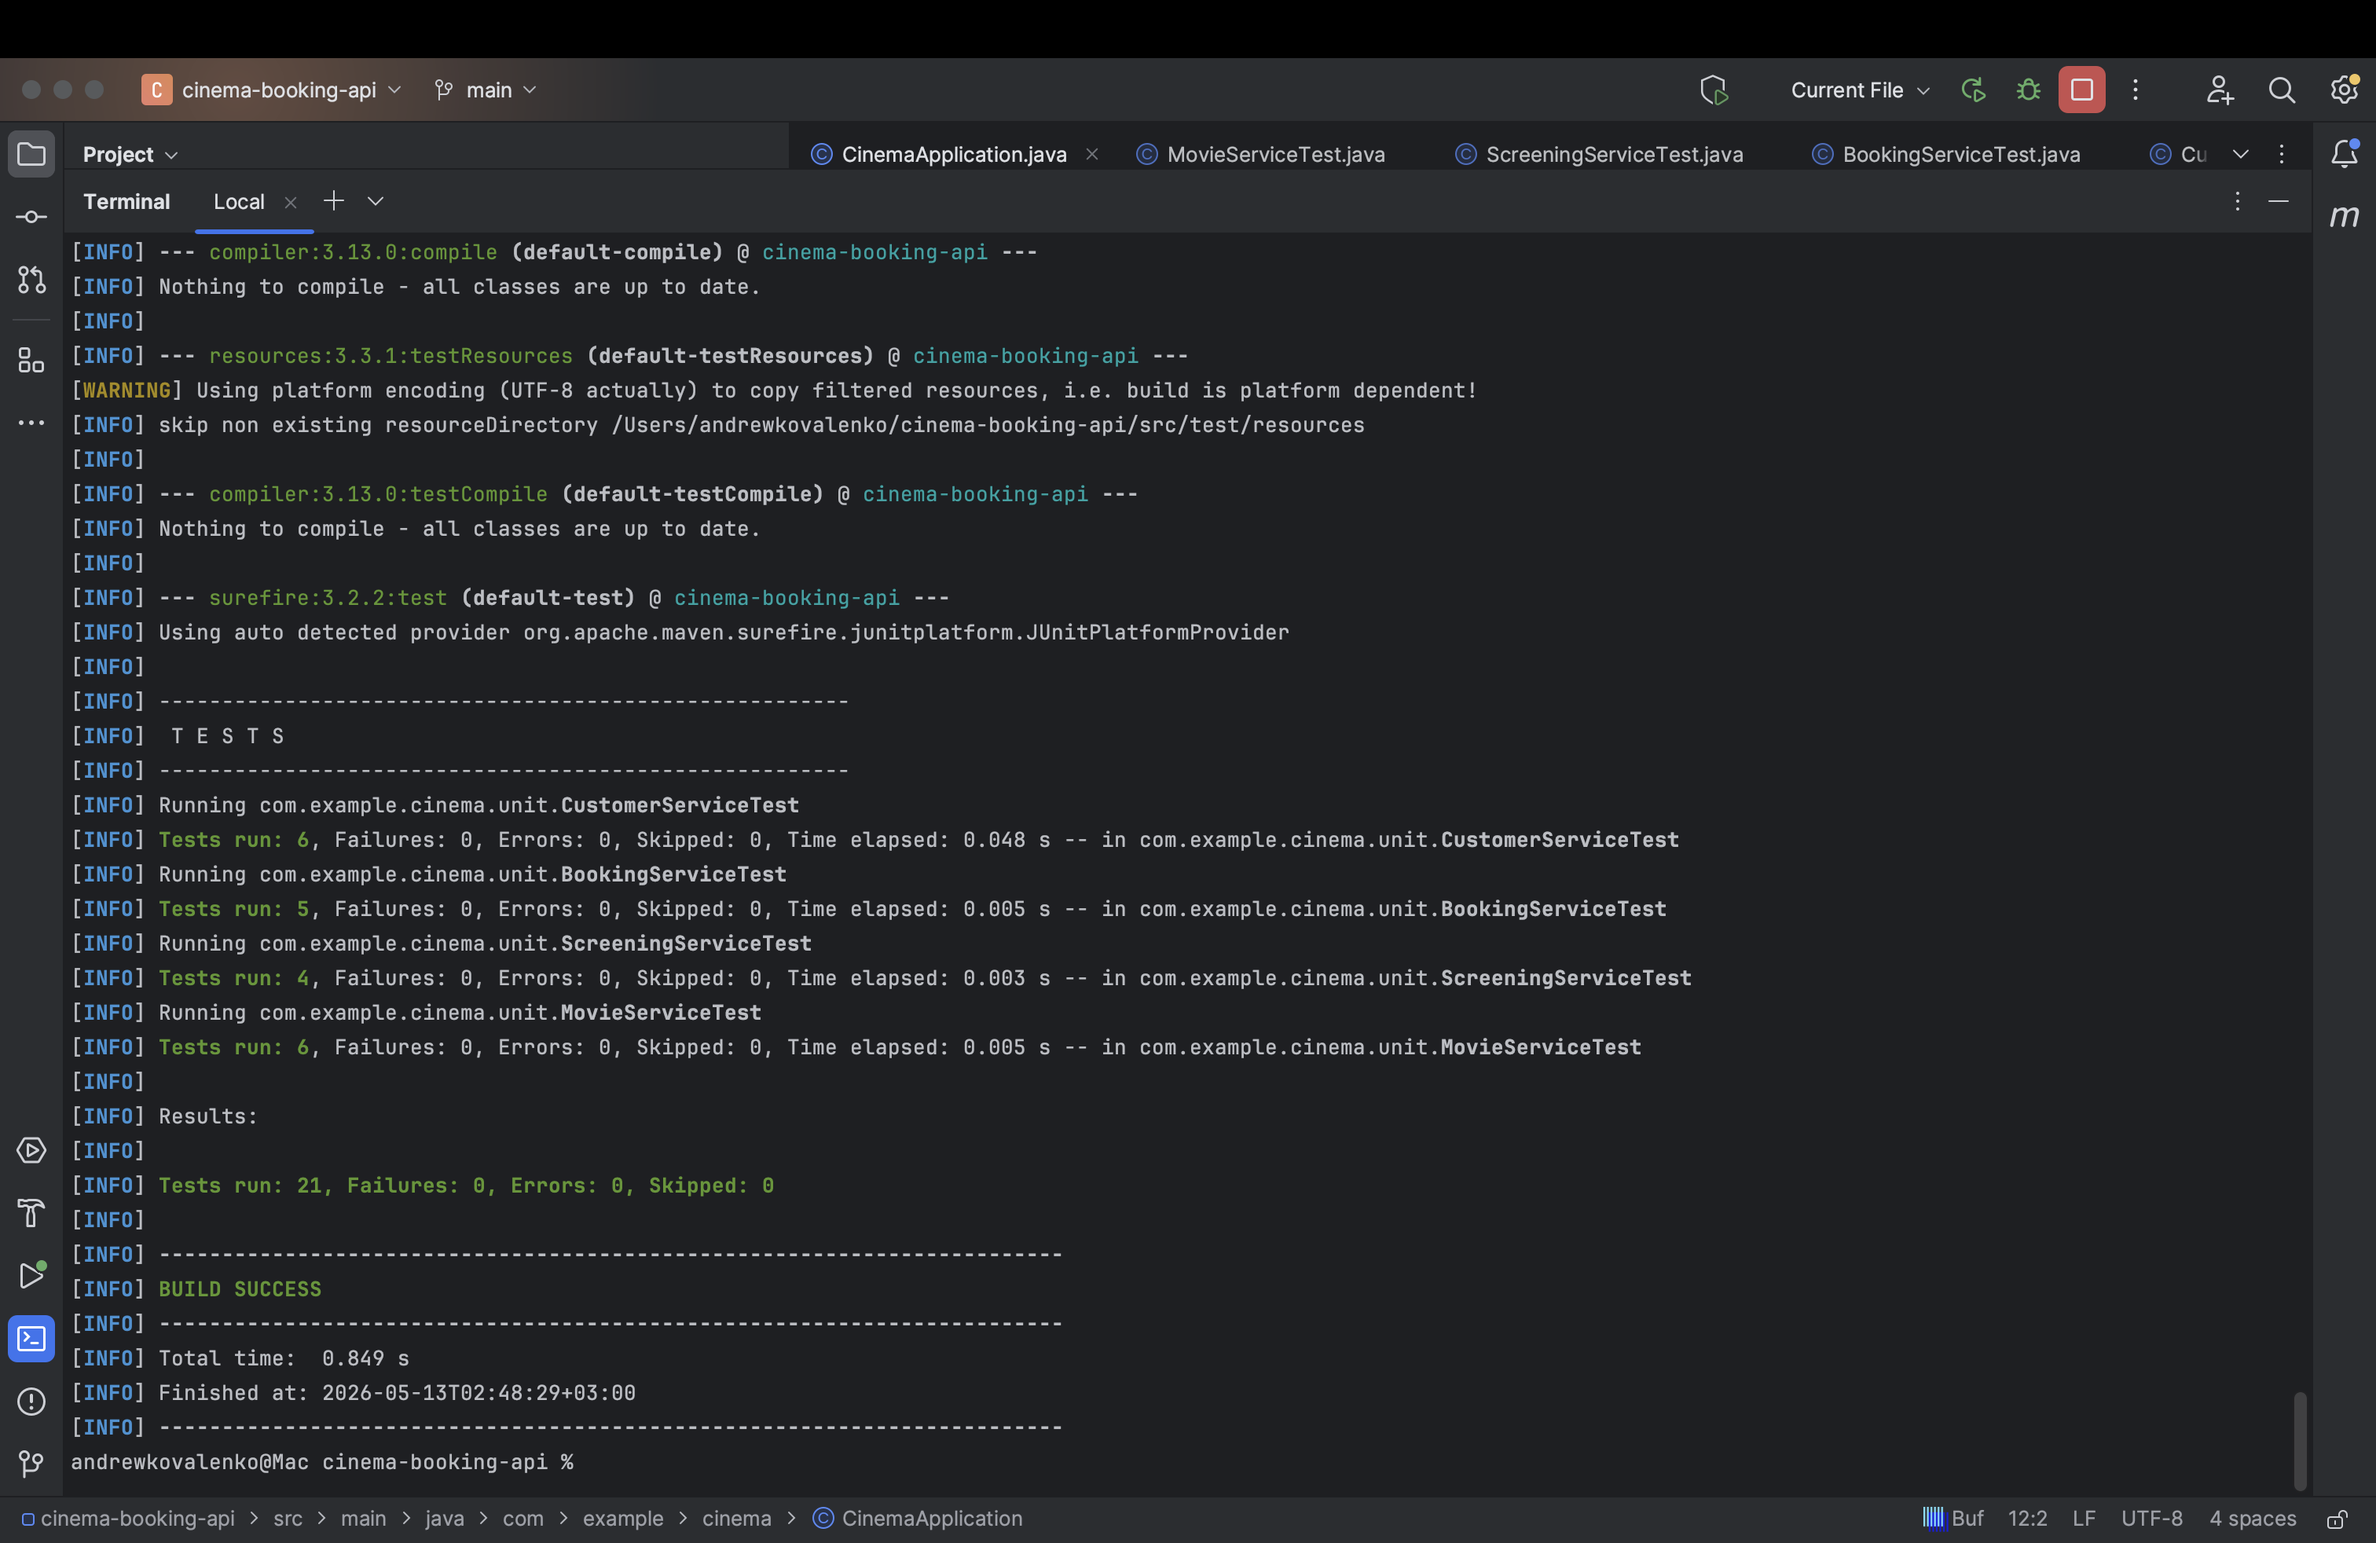
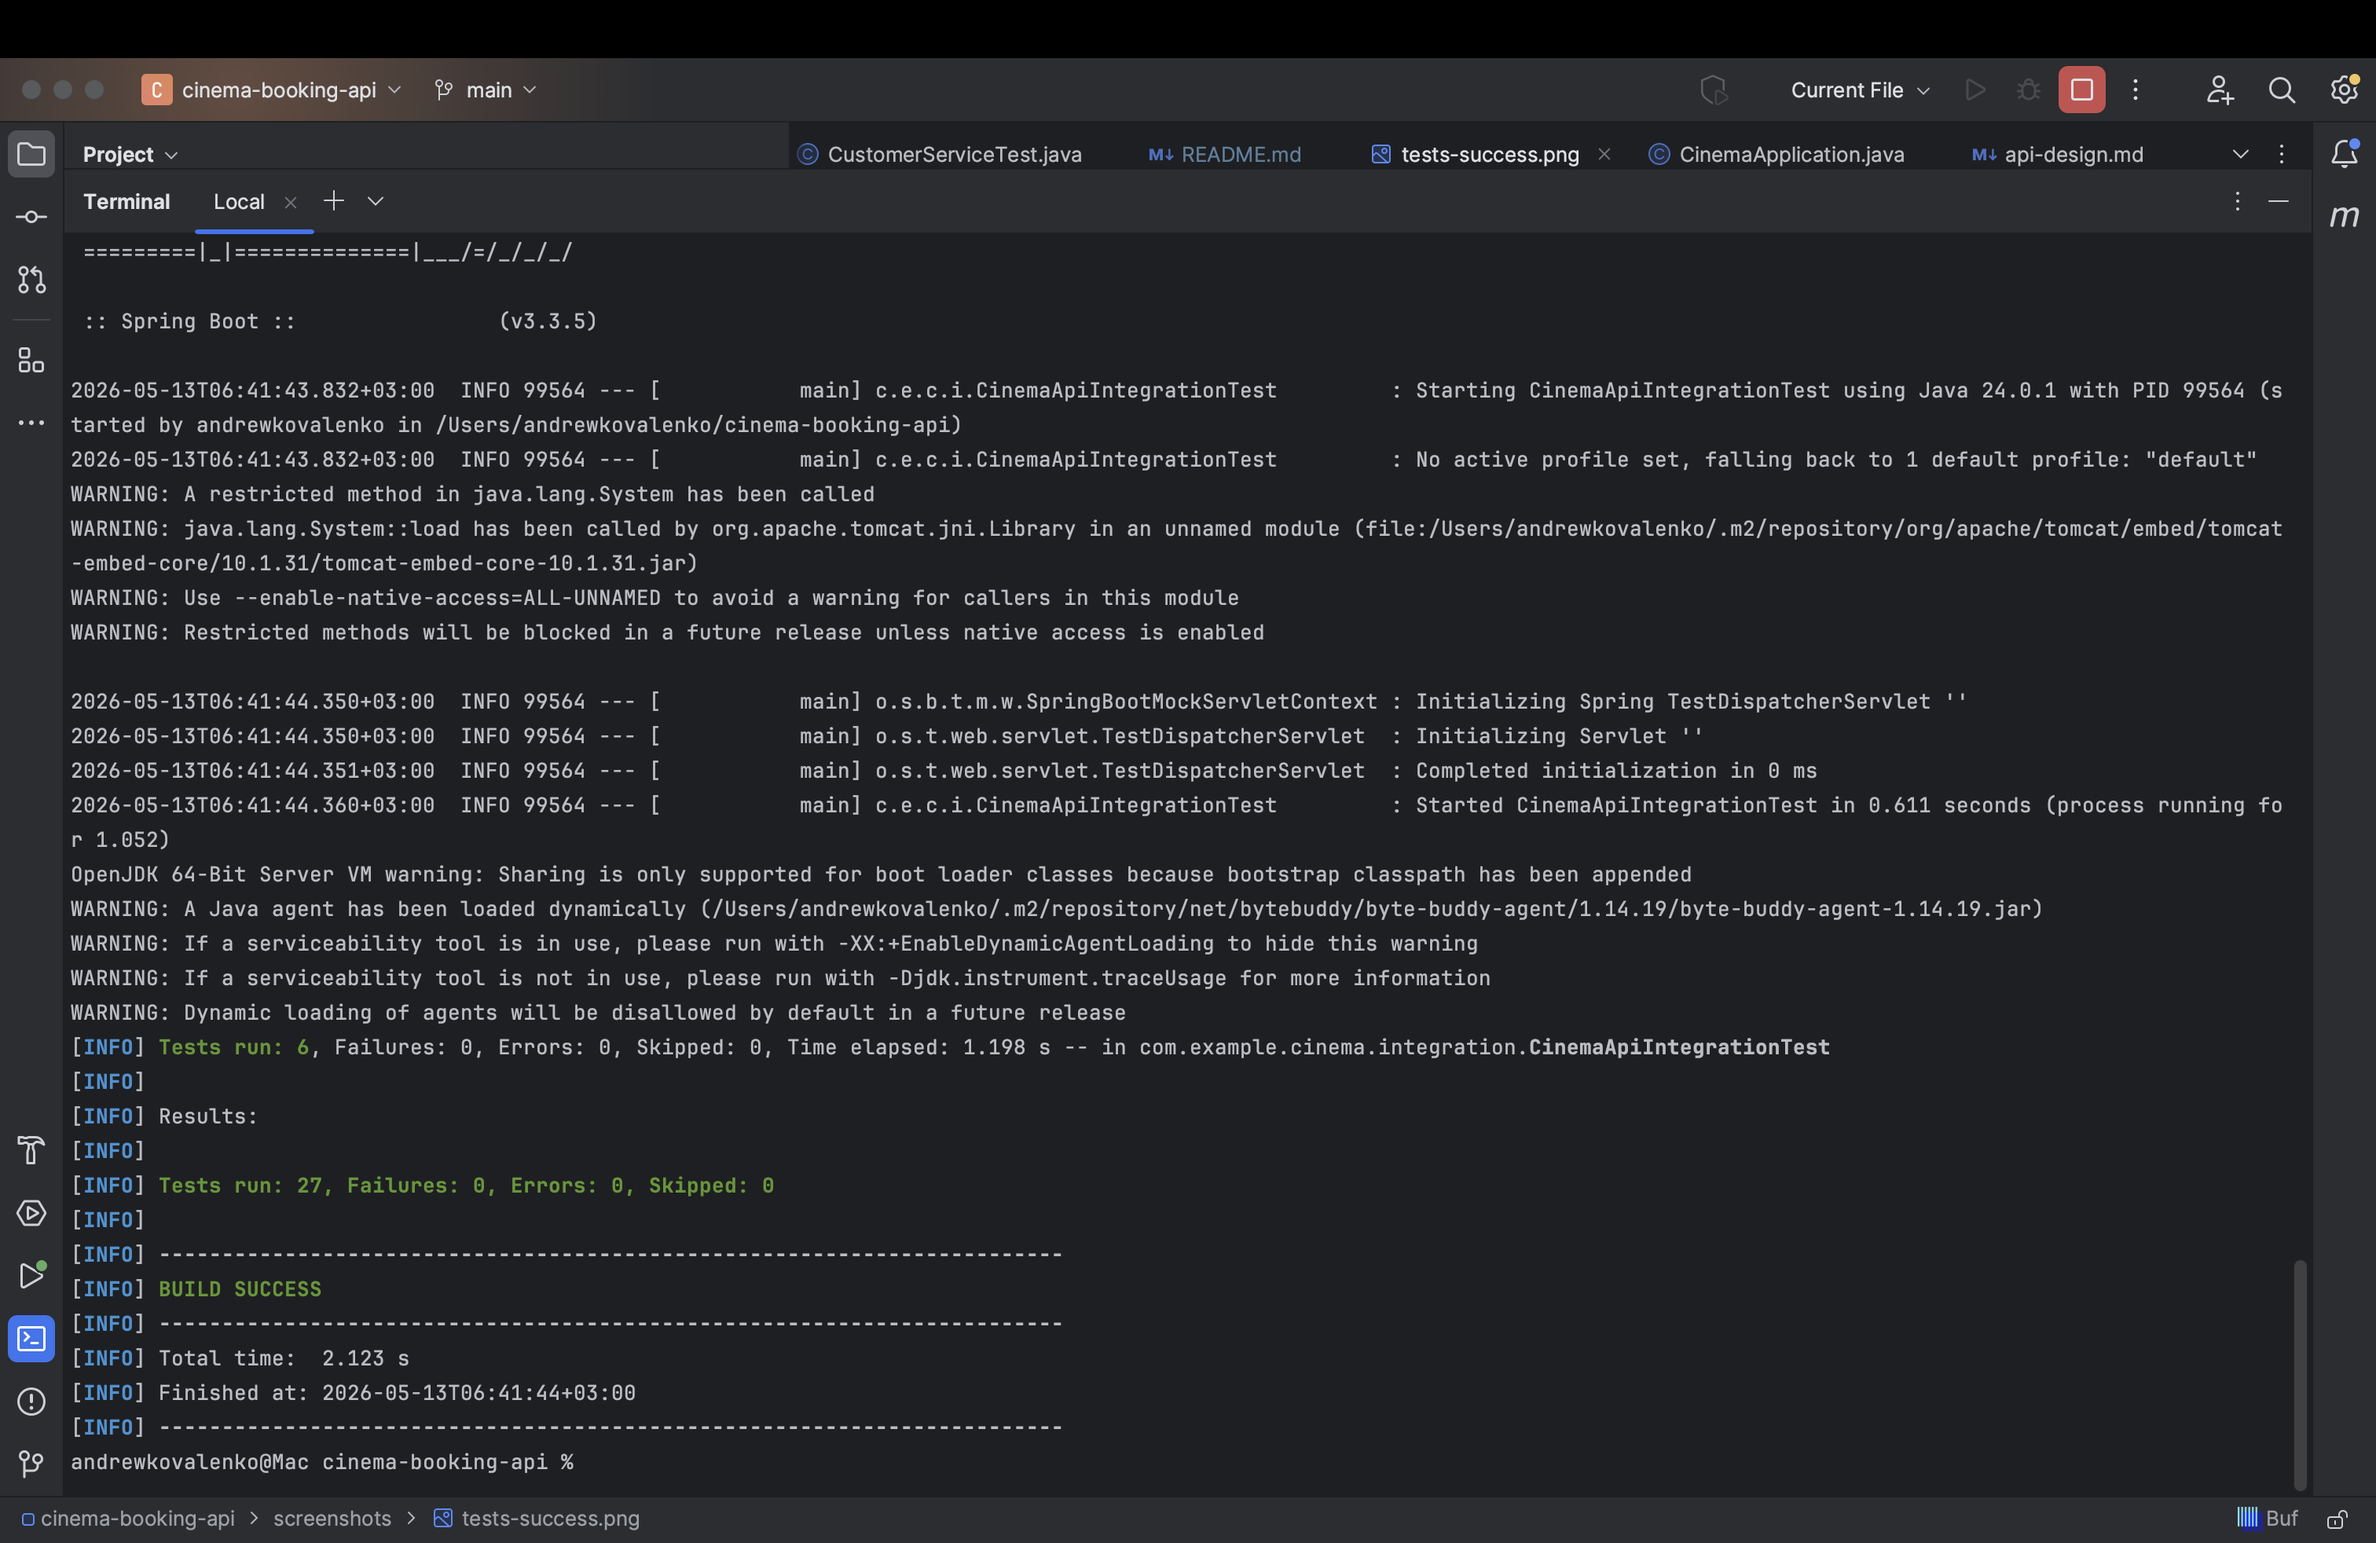
Add REST endpoint integration tests and update documentation

diff --git a/src/test/java/com/example/cinema/integration/CinemaApiIntegrationTest.java b/src/test/java/com/example/cinema/integration/CinemaApiIntegrationTest.java
@@ -1,0 +1,219 @@
+package com.example.cinema.integration;
+
+import com.example.cinema.service.BookingService;
+import com.example.cinema.service.CustomerService;
+import com.example.cinema.service.MovieService;
+import com.example.cinema.service.ScreeningService;
+import com.fasterxml.jackson.databind.JsonNode;
+import com.fasterxml.jackson.databind.ObjectMapper;
+import org.junit.jupiter.api.BeforeEach;
+import org.junit.jupiter.api.Test;
+import org.springframework.beans.factory.annotation.Autowired;
+import org.springframework.boot.test.autoconfigure.web.servlet.AutoConfigureMockMvc;
+import org.springframework.boot.test.context.SpringBootTest;
+import org.springframework.http.MediaType;
+import org.springframework.test.web.servlet.MockMvc;
+import org.springframework.test.web.servlet.MvcResult;
+
+import java.util.UUID;
+
+import static org.springframework.test.web.servlet.request.MockMvcRequestBuilders.get;
+import static org.springframework.test.web.servlet.request.MockMvcRequestBuilders.post;
+import static org.springframework.test.web.servlet.result.MockMvcResultMatchers.*;
+
+@SpringBootTest
+@AutoConfigureMockMvc
+class CinemaApiIntegrationTest {
+
+    @Autowired
+    private MockMvc mockMvc;
+
+    @Autowired
+    private ObjectMapper objectMapper;
+
+    @Autowired
+    private MovieService movieService;
+
+    @Autowired
+    private CustomerService customerService;
+
+    @Autowired
+    private ScreeningService screeningService;
+
+    @Autowired
+    private BookingService bookingService;
+
+    @BeforeEach
+    void setUp() {
+        bookingService.clearAll();
+        screeningService.clearAll();
+        customerService.clearAll();
+        movieService.clearAll();
+    }
+
+    @Test
+    void createMovieReturnsCreated() throws Exception {
+        String requestBody = """
+                {
+                  "title": "Interstellar",
+                  "genre": "Sci-Fi",
+                  "durationMinutes": 169,
+                  "ageRating": "PG-13"
+                }
+                """;
+
+        mockMvc.perform(post("/api/movies")
+                        .contentType(MediaType.APPLICATION_JSON)
+                        .content(requestBody))
+                .andExpect(status().isCreated())
+                .andExpect(jsonPath("$.id").exists())
+                .andExpect(jsonPath("$.title").value("Interstellar"))
+                .andExpect(jsonPath("$.genre").value("Sci-Fi"));
+    }
+
+    @Test
+    void listMoviesReturnsOk() throws Exception {
+        createMovie();
+
+        mockMvc.perform(get("/api/movies"))
+                .andExpect(status().isOk())
+                .andExpect(jsonPath("$[0].title").value("Interstellar"));
+    }
+
+    @Test
+    void invalidMovieReturnsBadRequest() throws Exception {
+        String requestBody = """
+                {
+                  "title": "",
+                  "genre": "",
+                  "durationMinutes": 0,
+                  "ageRating": ""
+                }
+                """;
+
+        mockMvc.perform(post("/api/movies")
+                        .contentType(MediaType.APPLICATION_JSON)
+                        .content(requestBody))
+                .andExpect(status().isBadRequest())
+                .andExpect(jsonPath("$.status").value(400))
+                .andExpect(jsonPath("$.error").value("Validation failed"));
+    }
+
+    @Test
+    void missingMovieReturnsNotFound() throws Exception {
+        mockMvc.perform(get("/api/movies/11111111-1111-1111-1111-111111111111"))
+                .andExpect(status().isNotFound())
+                .andExpect(jsonPath("$.status").value(404))
+                .andExpect(jsonPath("$.error").value("Movie not found"));
+    }
+
+    @Test
+    void createBookingReturnsCreated() throws Exception {
+        UUID movieId = createMovie();
+        UUID customerId = createCustomer();
+        UUID screeningId = createScreening(movieId, 80);
+
+        String requestBody = """
+                {
+                  "customerId": "%s",
+                  "screeningId": "%s",
+                  "seats": 2
+                }
+                """.formatted(customerId, screeningId);
+
+        mockMvc.perform(post("/api/bookings")
+                        .contentType(MediaType.APPLICATION_JSON)
+                        .content(requestBody))
+                .andExpect(status().isCreated())
+                .andExpect(jsonPath("$.id").exists())
+                .andExpect(jsonPath("$.customerId").value(customerId.toString()))
+                .andExpect(jsonPath("$.screeningId").value(screeningId.toString()))
+                .andExpect(jsonPath("$.seats").value(2))
+                .andExpect(jsonPath("$.status").value("CONFIRMED"));
+    }
+
+    @Test
+    void bookingNotEnoughSeatsReturnsConflict() throws Exception {
+        UUID movieId = createMovie();
+        UUID customerId = createCustomer();
+        UUID screeningId = createScreening(movieId, 2);
+
+        String requestBody = """
+                {
+                  "customerId": "%s",
+                  "screeningId": "%s",
+                  "seats": 100
+                }
+                """.formatted(customerId, screeningId);
+
+        mockMvc.perform(post("/api/bookings")
+                        .contentType(MediaType.APPLICATION_JSON)
+                        .content(requestBody))
+                .andExpect(status().isConflict())
+                .andExpect(jsonPath("$.status").value(409))
+                .andExpect(jsonPath("$.error").value("Not enough seats available"));
+    }
+
+    private UUID createMovie() throws Exception {
+        String requestBody = """
+                {
+                  "title": "Interstellar",
+                  "genre": "Sci-Fi",
+                  "durationMinutes": 169,
+                  "ageRating": "PG-13"
+                }
+                """;
+
+        MvcResult result = mockMvc.perform(post("/api/movies")
+                        .contentType(MediaType.APPLICATION_JSON)
+                        .content(requestBody))
+                .andExpect(status().isCreated())
+                .andReturn();
+
+        return getIdFromResponse(result);
+    }
+
+    private UUID createCustomer() throws Exception {
+        String requestBody = """
+                {
+                  "firstName": "Andrii",
+                  "lastName": "Kovalenko",
+                  "email": "andrii@example.com",
+                  "phone": "+123456789"
+                }
+                """;
+
+        MvcResult result = mockMvc.perform(post("/api/customers")
+                        .contentType(MediaType.APPLICATION_JSON)
+                        .content(requestBody))
+                .andExpect(status().isCreated())
+                .andReturn();
+
+        return getIdFromResponse(result);
+    }
+
+    private UUID createScreening(UUID movieId, int totalSeats) throws Exception {
+        String requestBody = """
+                {
+                  "movieId": "%s",
+                  "screeningTime": "2099-06-01T18:30:00",
+                  "hallName": "Hall A",
+                  "totalSeats": %d
+                }
+                """.formatted(movieId, totalSeats);
+
+        MvcResult result = mockMvc.perform(post("/api/screenings")
+                        .contentType(MediaType.APPLICATION_JSON)
+                        .content(requestBody))
+                .andExpect(status().isCreated())
+                .andReturn();
+
+        return getIdFromResponse(result);
+    }
+
+    private UUID getIdFromResponse(MvcResult result) throws Exception {
+        String responseBody = result.getResponse().getContentAsString();
+        JsonNode json = objectMapper.readTree(responseBody);
+        return UUID.fromString(json.get("id").asText());
+    }
+}

diff --git a/README.md b/README.md
@@ -32,7 +32,7 @@ The system manages movies, customers, screenings, and bookings. A customer can r
 - Pagination
 - Request validation
 - JSON error responses
-- Automated unit tests
+- Automated unit and integration tests
 
 ## How to Build
 
@@ -67,9 +67,19 @@ mvn test
 Successful test result:
 
 ```text
-Tests run: 21, Failures: 0, Errors: 0, Skipped: 0
+Tests run: 27, Failures: 0, Errors: 0, Skipped: 0
 BUILD SUCCESS
 ```
+
+The project includes unit tests for service logic and integration tests for REST endpoints.
+
+Test classes:
+
+- MovieServiceTest
+- CustomerServiceTest
+- ScreeningServiceTest
+- BookingServiceTest
+- CinemaApiIntegrationTest
 
 ## Main API Endpoints
 
@@ -233,6 +243,8 @@ cinema-booking-api/
 ├── README.md
 ├── docs/
 │   └── api-design.md
+├── postman/
+│   └── Cinema-Booking-API.postman_collection.json
 ├── screenshots/
 └── src/
     ├── main/java/com/example/cinema/
@@ -243,7 +255,8 @@ cinema-booking-api/
     │   ├── service/
     │   └── web/
     └── test/java/com/example/cinema/
-        └── unit/
+        ├── unit/
+        └── integration/
 ```
 
 ## Screenshots
